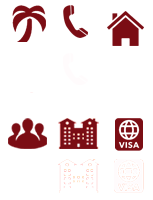
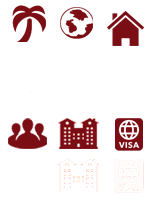
add title bg, add submenu, add country in main-menu

Changed region(s): [[0.3922, 0.0, 0.6275, 0.21]]

diff --git a/app/assets/stylesheets/application.css.scss b/app/assets/stylesheets/application.css.scss
@@ -155,7 +155,7 @@ p, span {color:#000}
   }
 .menu_bar ul#main-menu li{position:relative;
   width:30%; float:right;
-  height:100%; overflow:hidden;  
+  height:100%; 
   color:#811717;
   font-size:15px;  
   background-position: 50% 0;  
@@ -173,18 +173,46 @@ p, span {color:#000}
   transition: all .5s; 
   }
 .menu_bar ul#main-menu li.item-menu .icon#home{background-position: 100% 35%; }
+.menu_bar ul#main-menu li.item-menu .icon#country{background-position: 50% 35%; }
 .menu_bar ul#main-menu li.item-menu .icon#tours{background-position: 0 33%; }
 .menu_bar ul#main-menu li.item-menu .icon#hotels{background-position: 57% 100%;}
 .menu_bar ul#main-menu li.item-menu .icon#visa{background-position: 111% 98%;}
 .menu_bar ul#main-menu li.item-menu .icon#page1{background-position: 0 100%;}
 .menu_bar ul#main-menu li.item-menu .icon#page2{background-position: 53% 27%;}
 .menu_bar ul#main-menu li.item-menu:hover .icon#home,.menu_bar ul#main-menu li.item-menu.active .icon#home{background-position: 100% 7%;}
+.menu_bar ul#main-menu li.item-menu:hover .icon#country,.menu_bar ul#main-menu li.item-menu.active .icon#country{background-position: 50% 0%;}
 .menu_bar ul#main-menu li.item-menu:hover .icon#tours,.menu_bar ul#main-menu li.item-menu.active .icon#tours{background-position: 0 3%;}
 .menu_bar ul#main-menu li.item-menu:hover .icon#hotels,.menu_bar ul#main-menu li.item-menu.active .icon#hotels{background-position: 57% 73%;}
 .menu_bar ul#main-menu li.item-menu:hover .icon#visa,.menu_bar ul#main-menu li.item-menu.active .icon#visa{background-position: 111% 70%;}
 .menu_bar ul#main-menu li.item-menu:hover .icon#page1,.menu_bar ul#main-menu li.item-menu.active .icon#page1{background-position: 0 75%;}
 .menu_bar ul#main-menu li.item-menu:hover .icon#page2,.menu_bar ul#main-menu li.item-menu.active .icon#page2{background-position: 52% 0;}
 .menu_bar ul#main-menu.fa li.item-menu {font-family: 'Bhoma';}
+.menu_bar ul#main-menu li.item-menu ul.sub-menu{
+  list-style:none;
+  position: absolute;
+  width: 100%;
+  padding: 0;
+  height: 0;
+  font-family: 'Bhoma'; 
+  background-image: url(image-path('sub-menu.png'));
+  background-repeat:repeat;
+  top:75px;
+  border-bottom-left-radius:5px;
+  border-bottom-right-radius:5px;
+  -webkit-transition: all .5s; /* For Safari 3.1 to 6.0 */
+  transition: all .5s; 
+  overflow:hidden;  
+  }
+.menu_bar ul#main-menu li.item-menu:hover ul.sub-menu {height:80px; padding-top:10px;}
+.menu_bar ul#main-menu li.item-menu.about-didar:hover ul.sub-menu {height:90px; padding-top:5px; margin-top:-5px}
+.menu_bar ul#main-menu li.item-menu ul.sub-menu li {width:100%; clear:both; height:30px;
+  -webkit-transition: all .5s; /* For Safari 3.1 to 6.0 */
+  transition: all .5s; 
+  background:transparent;
+  }
+.menu_bar ul#main-menu li.item-menu ul.sub-menu li:hover {background:#A52A2A; color:#fff}
+.menu_bar ul#main-menu li.item-menu ul.sub-menu li:hover a{ color:#fff}
+.menu_bar ul#main-menu li.item-menu ul.sub-menu li a{padding:0}
 .menu_bar ul#main-menu li.item-menu a {  
   padding-top:50px;
   width:100%; height:100%;
@@ -359,7 +387,20 @@ top: 0;
   }
 #news .title-tour {background-image: url(image-path('news-line.png'));}
 .title-tour p{color:#620808; font-size:1.5em;}
-
+#title-visa.title-tour {background-image: url(image-path('visa-line.png'));}
+.title-tour#title-tours {background-image: url(image-path('tours-line.png'));}
+.title-tour#title-certificate {background-image: url(image-path('driving licence.png')); 
+  background-position: 55% 100%;
+  height:85px}
+.title-tour#local-sights {background-image: url(image-path('visitiran.png')); 
+  background-position: 50% 100%;
+  height:85px}
+.title-tour#local-tour {background-image: url(image-path('visitworld.png')); 
+  background-position: 50% 100%;
+  height:85px}
+.title-tour#visa-form {background-image: url(image-path('visa-line.png')); 
+  background-position: 55% 100%;
+  height:85px}
 .slider4 {position:relative; width:100%; 
   height:270px; margin-bottom:5px;  
   }
@@ -484,7 +525,7 @@ top:-23%;
 background:#fff; border-radius:50%;}
 .plane-company .all-plane-icon img {width:100%}
 .plane-company .plane-logo{width:100px; height:100px; float:right;}
-.title-certificate {}
+
 .plane-company .plane-logo:hover a img{opacity:.6}
 .show-news-and-event {margin-bottom:5%}
 
@@ -532,3 +573,13 @@ line-height: 2em;}
 
 .contact-form .form-control {color:#fff}
 .contact-form.fa .col-xs-6, .contact-form.ar .col-xs-6{float:right}
+#title-countries {background-image: url(image-path('earth-line.png'));
+  background-repeat:no-repeat;  
+  background-position:50% 100%; height: 85px;}
+.sub-title {
+  color:#7C0707; 
+  font-size:1.5em;
+  text-align:center;
+  border-bottom: 3px dashed #7C0707;
+  padding:2%
+  }

diff --git a/app/assets/javascripts/application.js b/app/assets/javascripts/application.js
@@ -45,4 +45,13 @@
 
 $(function () {
   $('[data-toggle="tooltip"]').tooltip()
-})
+});
+
+
+
+$(document).ready(function() {
+  $('li[role=presentation]').click(function() {
+    $('html, body').animate({ scrollTop: 1000 }, 'slow'); 
+  })
+});
+
